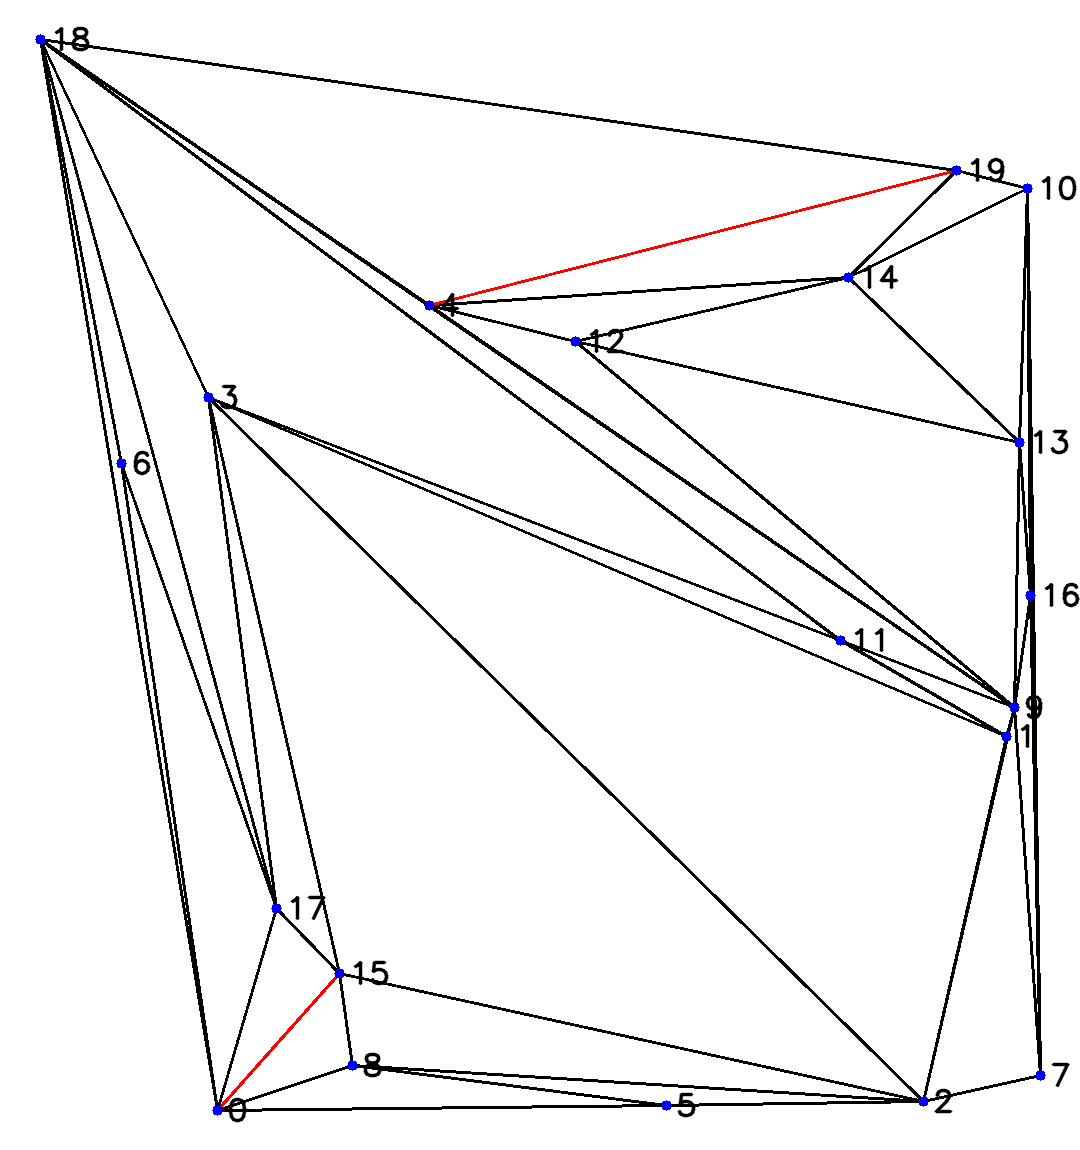
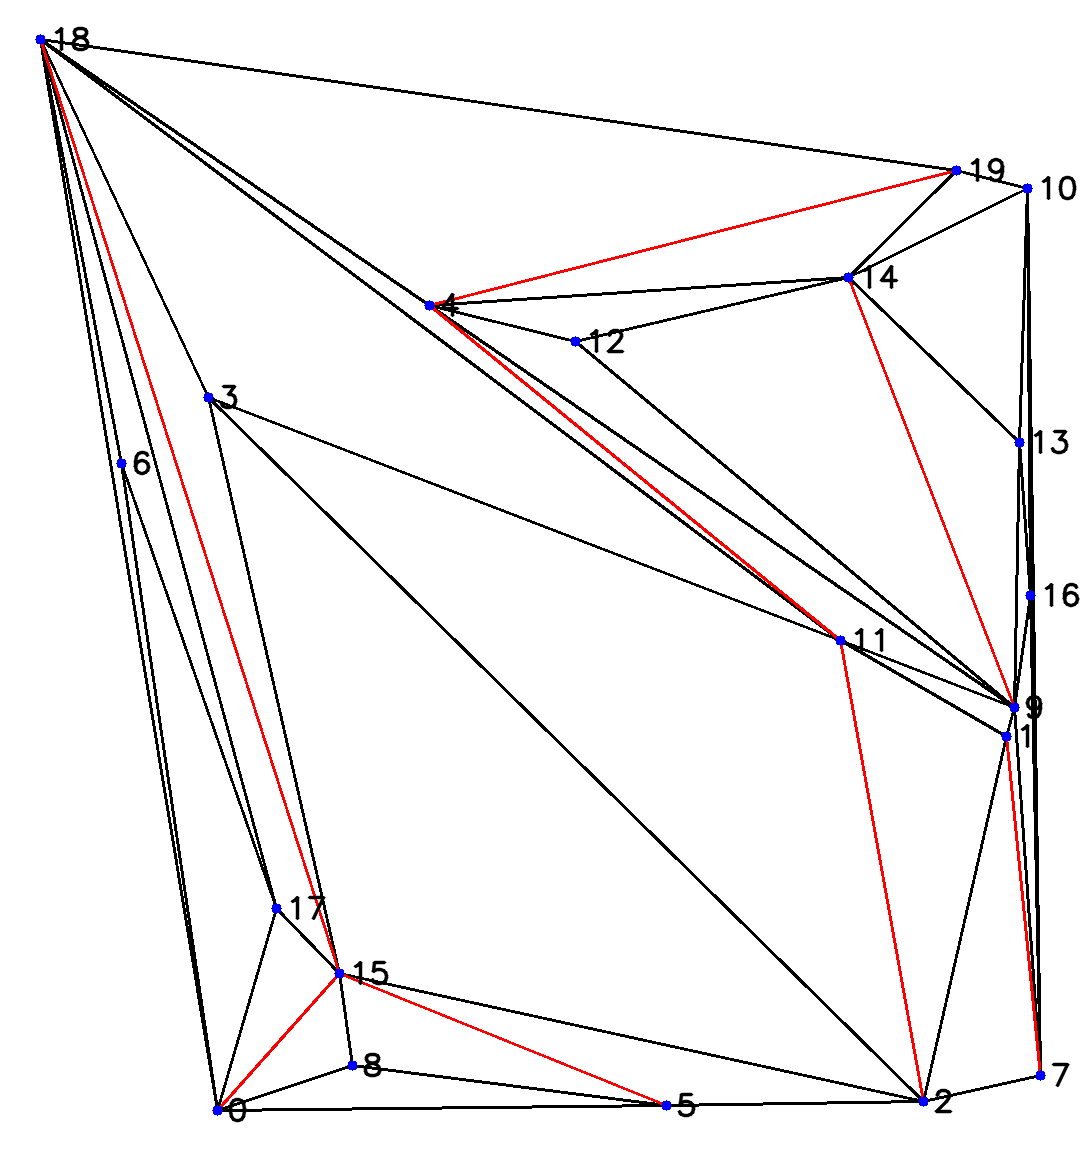
parallel step update

diff --git a/data.py b/data.py
@@ -119,32 +119,87 @@ class Triangulation:
     def maximal_disjoint_convex_quad(self, E:list[(int, int)], prev_use=[]):
         res = []
         second_best = None
-        used = [False]*len(self.pts)
+        used = [[False]*len(self.pts) for _ in range(len(self.pts))]
         for i, e in enumerate(E):
             if self.is_convex_quad(e[0], e[1]):
                 if e not in prev_use:
                     res.append(e)
-                    used[e[0]] = True
-                    used[e[1]] = True
-                    used[self.edges[e].nei_pts[0]] = True
-                    used[self.edges[e].nei_pts[1]] = True
+                    used[e[0]][e[1]] = True
+                    used[e[1]][e[0]] = True
+                    used[e[0]][self.edges[e].nei_pts[0]] = True
+                    used[e[0]][self.edges[e].nei_pts[1]] = True
+                    used[e[1]][self.edges[e].nei_pts[0]] = True
+                    used[e[1]][self.edges[e].nei_pts[1]] = True
+                    used[self.edges[e].nei_pts[0]][e[0]] = True
+                    used[self.edges[e].nei_pts[1]][e[0]] = True
+                    used[self.edges[e].nei_pts[0]][e[1]] = True
+                    used[self.edges[e].nei_pts[1]][e[1]] = True
                     break
                 else:
                     second_best = e
         if not res:
             res.append(e)
-            used[e[0]] = True
-            used[e[1]] = True
-            used[self.edges[e].nei_pts[0]] = True
-            used[self.edges[e].nei_pts[1]] = True
-        for j in range(len(E)):
-            if self.is_convex_quad(e[0], e[1]):
-                check_ind = [E[j][0],E[j][1],self.edges[E[j]].nei_pts[0],self.edges[E[j]].nei_pts[1]]
-                check_use = [used[k] for k in check_ind]
-                if True in check_use:
-                    continue
-                for ind in check_ind: used[ind] = True
-                res.append(E[j])
+            used[e[0]][e[1]] = True
+            used[e[1]][e[0]] = True
+            used[e[0]][self.edges[e].nei_pts[0]] = True
+            used[e[0]][self.edges[e].nei_pts[1]] = True
+            used[e[1]][self.edges[e].nei_pts[0]] = True
+            used[e[1]][self.edges[e].nei_pts[1]] = True
+            used[self.edges[e].nei_pts[0]][e[0]] = True
+            used[self.edges[e].nei_pts[1]][e[0]] = True
+            used[self.edges[e].nei_pts[0]][e[1]] = True
+            used[self.edges[e].nei_pts[1]][e[1]] = True
+            for j in range(len(E)):
+                e = E[j]
+                if self.is_convex_quad(e[0], e[1]):
+                    if used[e[0]][e[1]]==True:
+                        continue
+                    used[e[0]][e[1]] = True
+                    used[e[1]][e[0]] = True
+                    used[e[0]][self.edges[e].nei_pts[0]] = True
+                    used[e[0]][self.edges[e].nei_pts[1]] = True
+                    used[e[1]][self.edges[e].nei_pts[0]] = True
+                    used[e[1]][self.edges[e].nei_pts[1]] = True
+                    used[self.edges[e].nei_pts[0]][e[0]] = True
+                    used[self.edges[e].nei_pts[1]][e[0]] = True
+                    used[self.edges[e].nei_pts[0]][e[1]] = True
+                    used[self.edges[e].nei_pts[1]][e[1]] = True
+                    res.append(E[j])
+        else:
+            for j in range(len(E)):
+                e = E[j]
+                if e not in prev_use:
+                    if self.is_convex_quad(e[0], e[1]):
+                        if used[e[0]][e[1]]==True:
+                            continue
+                        used[e[0]][e[1]] = True
+                        used[e[1]][e[0]] = True
+                        used[e[0]][self.edges[e].nei_pts[0]] = True
+                        used[e[0]][self.edges[e].nei_pts[1]] = True
+                        used[e[1]][self.edges[e].nei_pts[0]] = True
+                        used[e[1]][self.edges[e].nei_pts[1]] = True
+                        used[self.edges[e].nei_pts[0]][e[0]] = True
+                        used[self.edges[e].nei_pts[1]][e[0]] = True
+                        used[self.edges[e].nei_pts[0]][e[1]] = True
+                        used[self.edges[e].nei_pts[1]][e[1]] = True
+                        res.append(E[j])
+            for j in range(len(E)):
+                e = E[j]
+                if self.is_convex_quad(e[0], e[1]):
+                    if used[e[0]][e[1]]==True:
+                        continue
+                    used[e[0]][e[1]] = True
+                    used[e[1]][e[0]] = True
+                    used[e[0]][self.edges[e].nei_pts[0]] = True
+                    used[e[0]][self.edges[e].nei_pts[1]] = True
+                    used[e[1]][self.edges[e].nei_pts[0]] = True
+                    used[e[1]][self.edges[e].nei_pts[1]] = True
+                    used[self.edges[e].nei_pts[0]][e[0]] = True
+                    used[self.edges[e].nei_pts[1]][e[0]] = True
+                    used[self.edges[e].nei_pts[0]][e[1]] = True
+                    used[self.edges[e].nei_pts[1]][e[1]] = True
+                    res.append(E[j])
+                
         return res
         
     def flip(self, i, j):
@@ -226,10 +281,10 @@ class Data:
         step = 0
         res_e_list = []
         while True:
-            step+=1
             E1, E2 = T.find_difference(self.triangulations[1])
             if not E1:
                 break
+            step+=1
             e_list = T.maximal_disjoint_convex_quad(E1, res_e_list)
             if not e_list:
                 pdb.set_trace()
@@ -238,6 +293,7 @@ class Data:
                 res_e_list.append(T.flip(e[0],e[1]))
             self.DrawTriangulation(T, colored_edges=res_e_list,name=f"step {step}")
             self.DrawTriangulation(T, colored_edges=res_e_list,name=f"check")
+        print(f"0 -> 1 can be done in {step} step!")
             # pdb.set_trace()
         # for e in self.triangulations[0].edges.values():
         #     print(f"edge {e.p1} {e.p2}: {e.nei_pts[0]}, {e.nei_pts[1]}")
